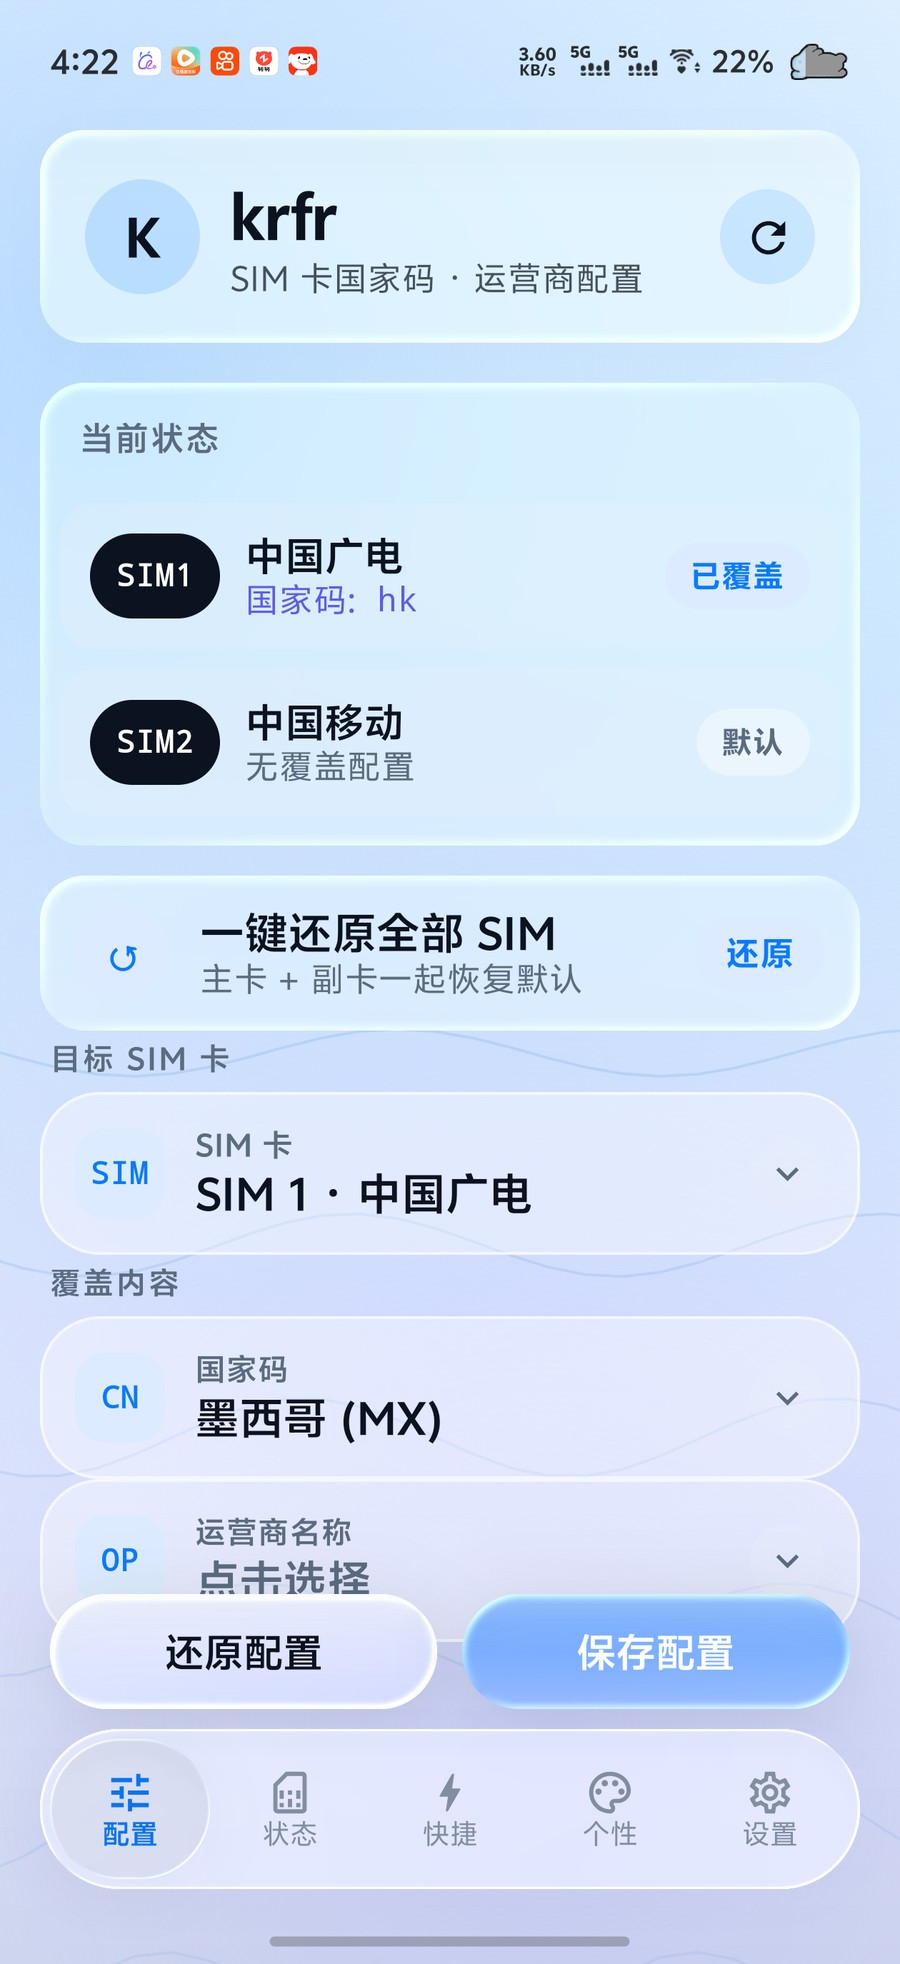
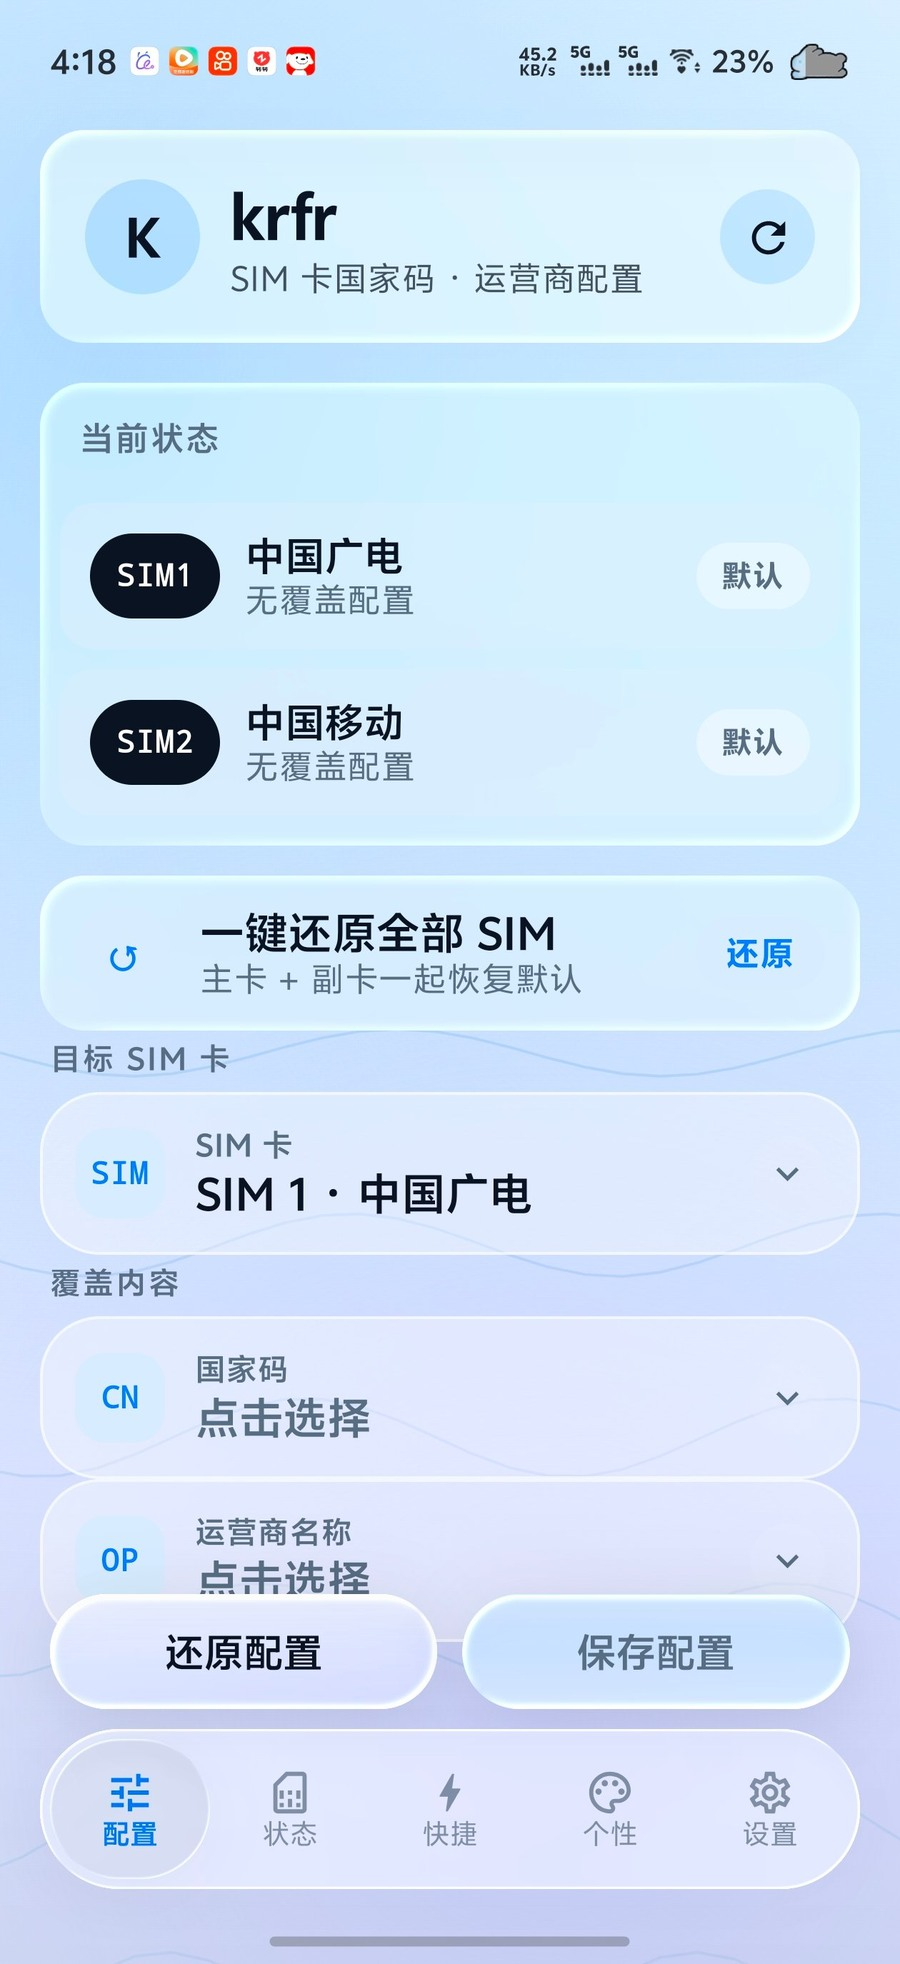
docs(site): 三语截图全部替换为用户提供的原图；去掉手机外壳上的假灵动岛（截图自带状态栏）

diff --git a/docs/index.html b/docs/index.html
@@ -90,7 +90,6 @@
   .phone-shot { display: flex; flex-direction: column; align-items: center; margin: 26px 0 6px; }
   .phone { width: 268px; border: 9px solid #101722; border-radius: 44px; position: relative; overflow: hidden; background: #000;
     box-shadow: 0 28px 60px rgba(16,51,102,.34), 0 0 0 1px rgba(255,255,255,.35); }
-  .phone-notch { position: absolute; top: 8px; left: 50%; transform: translateX(-50%); width: 94px; height: 20px; background: #101722; border-radius: 0 0 14px 14px; z-index: 2; }
   .phone img { width: 100%; display: block; border-radius: 35px; }
   .shot-caption { text-align: center; color: var(--muted); font-size: 13px; margin-top: 12px; max-width: 460px; }
 
@@ -198,8 +197,7 @@
 
   <div class="phone-shot">
     <div class="phone">
-      <div class="phone-notch"></div>
-      <img src="shot-zhcn-v4.jpg" alt="krfr config screen" data-i18n-img="shot_img">
+      <img src="shot-zhcn-v5.jpg" alt="krfr config screen" data-i18n-img="shot_img">
     </div>
     <p class="shot-caption" data-i18n="shot_caption">Per-SIM independent config · China Broadnet / China Mobile, MCC/MNC &amp; carrier at a glance</p>
   </div>
@@ -318,7 +316,7 @@ var I18N = {
     "dl_note": "Slow download? Get a mirror from",
     "dl_note_gh": "GitHub Releases",
     "dl_note2": "(may be slower in some regions).",
-    "shot_img": "shot-en-v4.jpg",
+    "shot_img": "shot-en-v5.jpg",
     "shot_caption": "Per-SIM independent config · China Broadnet / China Mobile, MCC/MNC & carrier at a glance",
     "sec_features": "Features",
     "f1_t": "MCC/MNC & Carrier Override",
@@ -381,7 +379,7 @@ var I18N = {
     "dl_note": "若下载速度慢，可到",
     "dl_note_gh": "GitHub Releases",
     "dl_note2": "获取备用下载（国内访问可能较慢）。",
-    "shot_img": "shot-zhcn-v4.jpg",
+    "shot_img": "shot-zhcn-v5.jpg",
     "shot_caption": "双卡独立配置 · 中国广电 / 中国移动，国家码与运营商一目了然",
     "sec_features": "功能特性",
     "f1_t": "国家码 / 运营商覆盖",
@@ -444,7 +442,7 @@ var I18N = {
     "dl_note": "若下載速度慢，可到",
     "dl_note_gh": "GitHub Releases",
     "dl_note2": "取得備用下載（部分地區存取可能較慢）。",
-    "shot_img": "shot-zhtw-v4.jpg",
+    "shot_img": "shot-zhtw-v5.jpg",
     "shot_caption": "雙卡獨立配置 · 中國廣電 / 中國移動，國家碼與電訊商一目了然",
     "sec_features": "功能特性",
     "f1_t": "國家碼 / 電訊商覆蓋",
